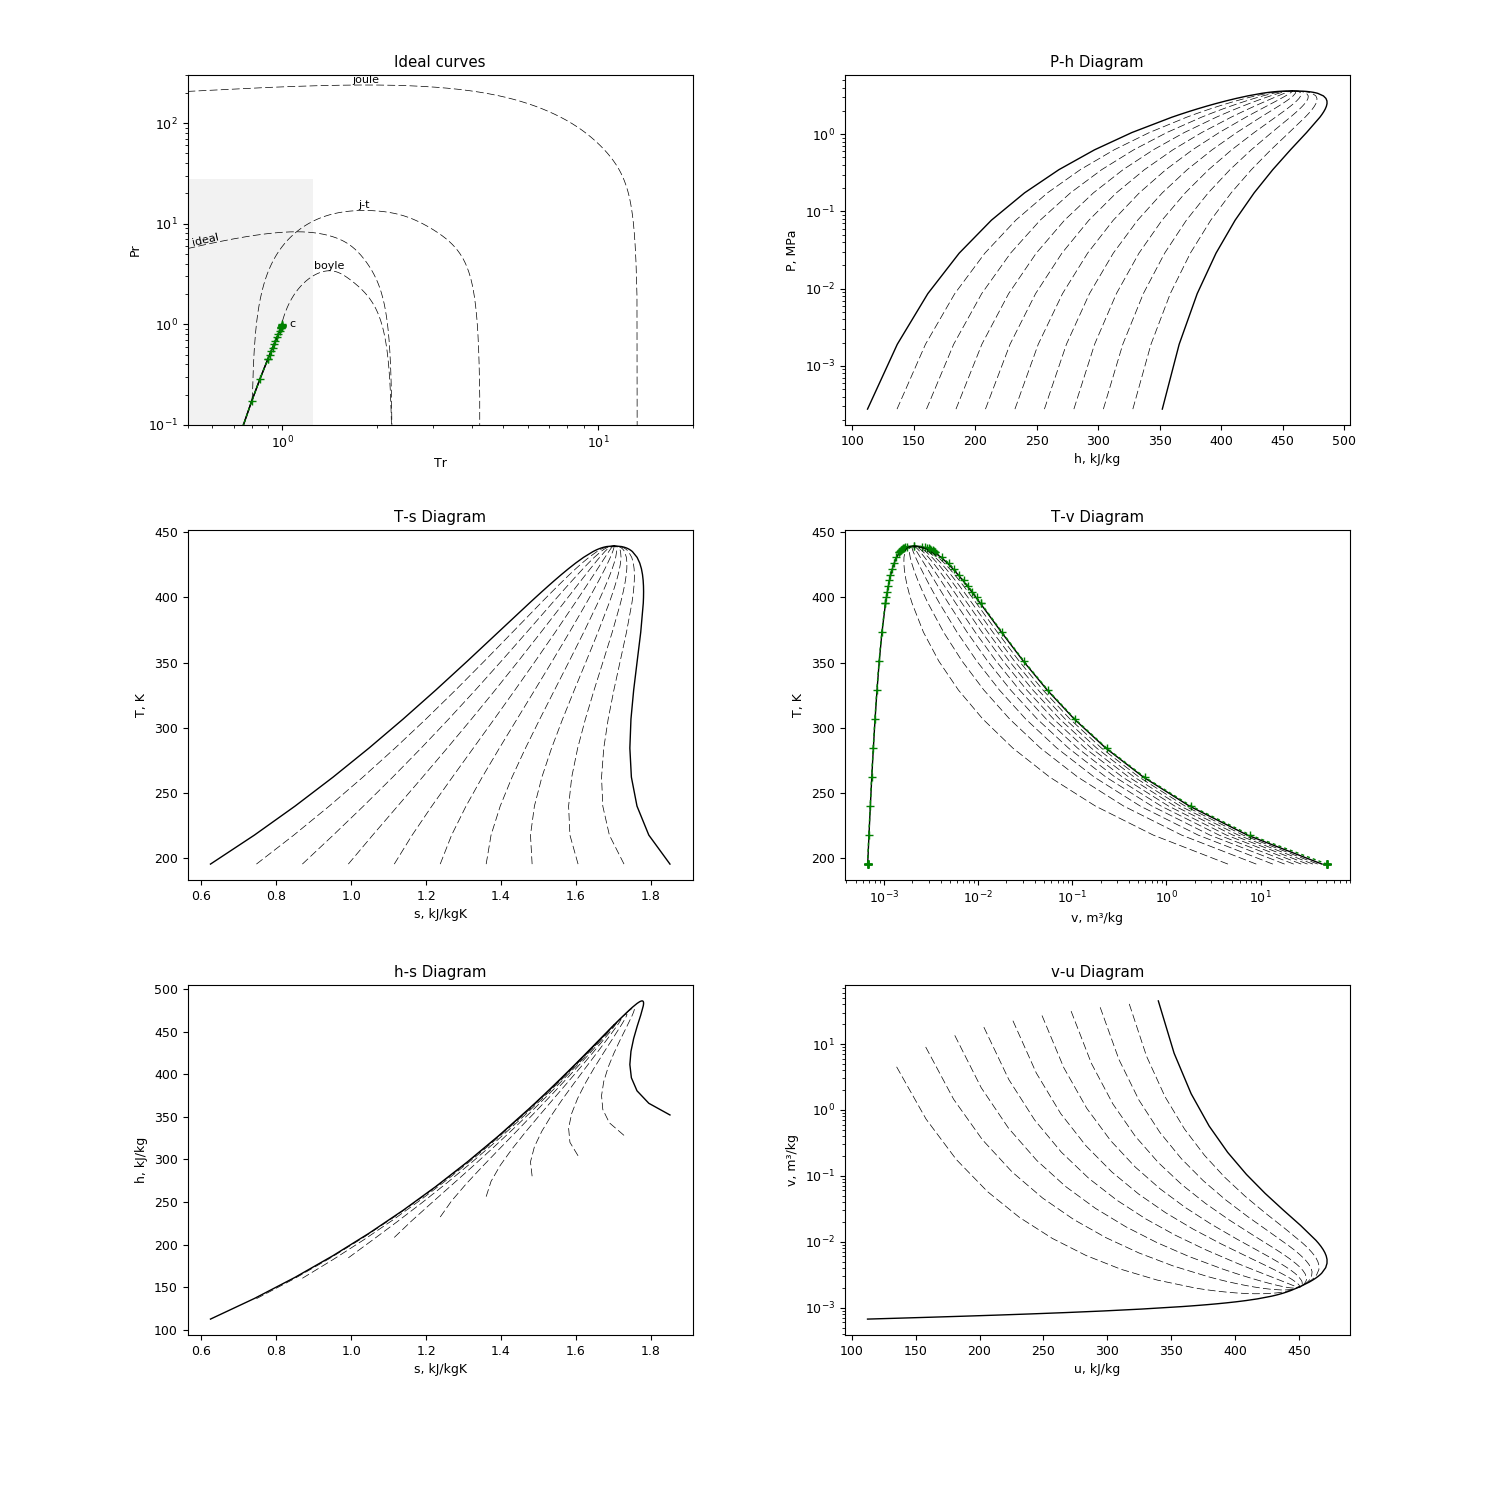
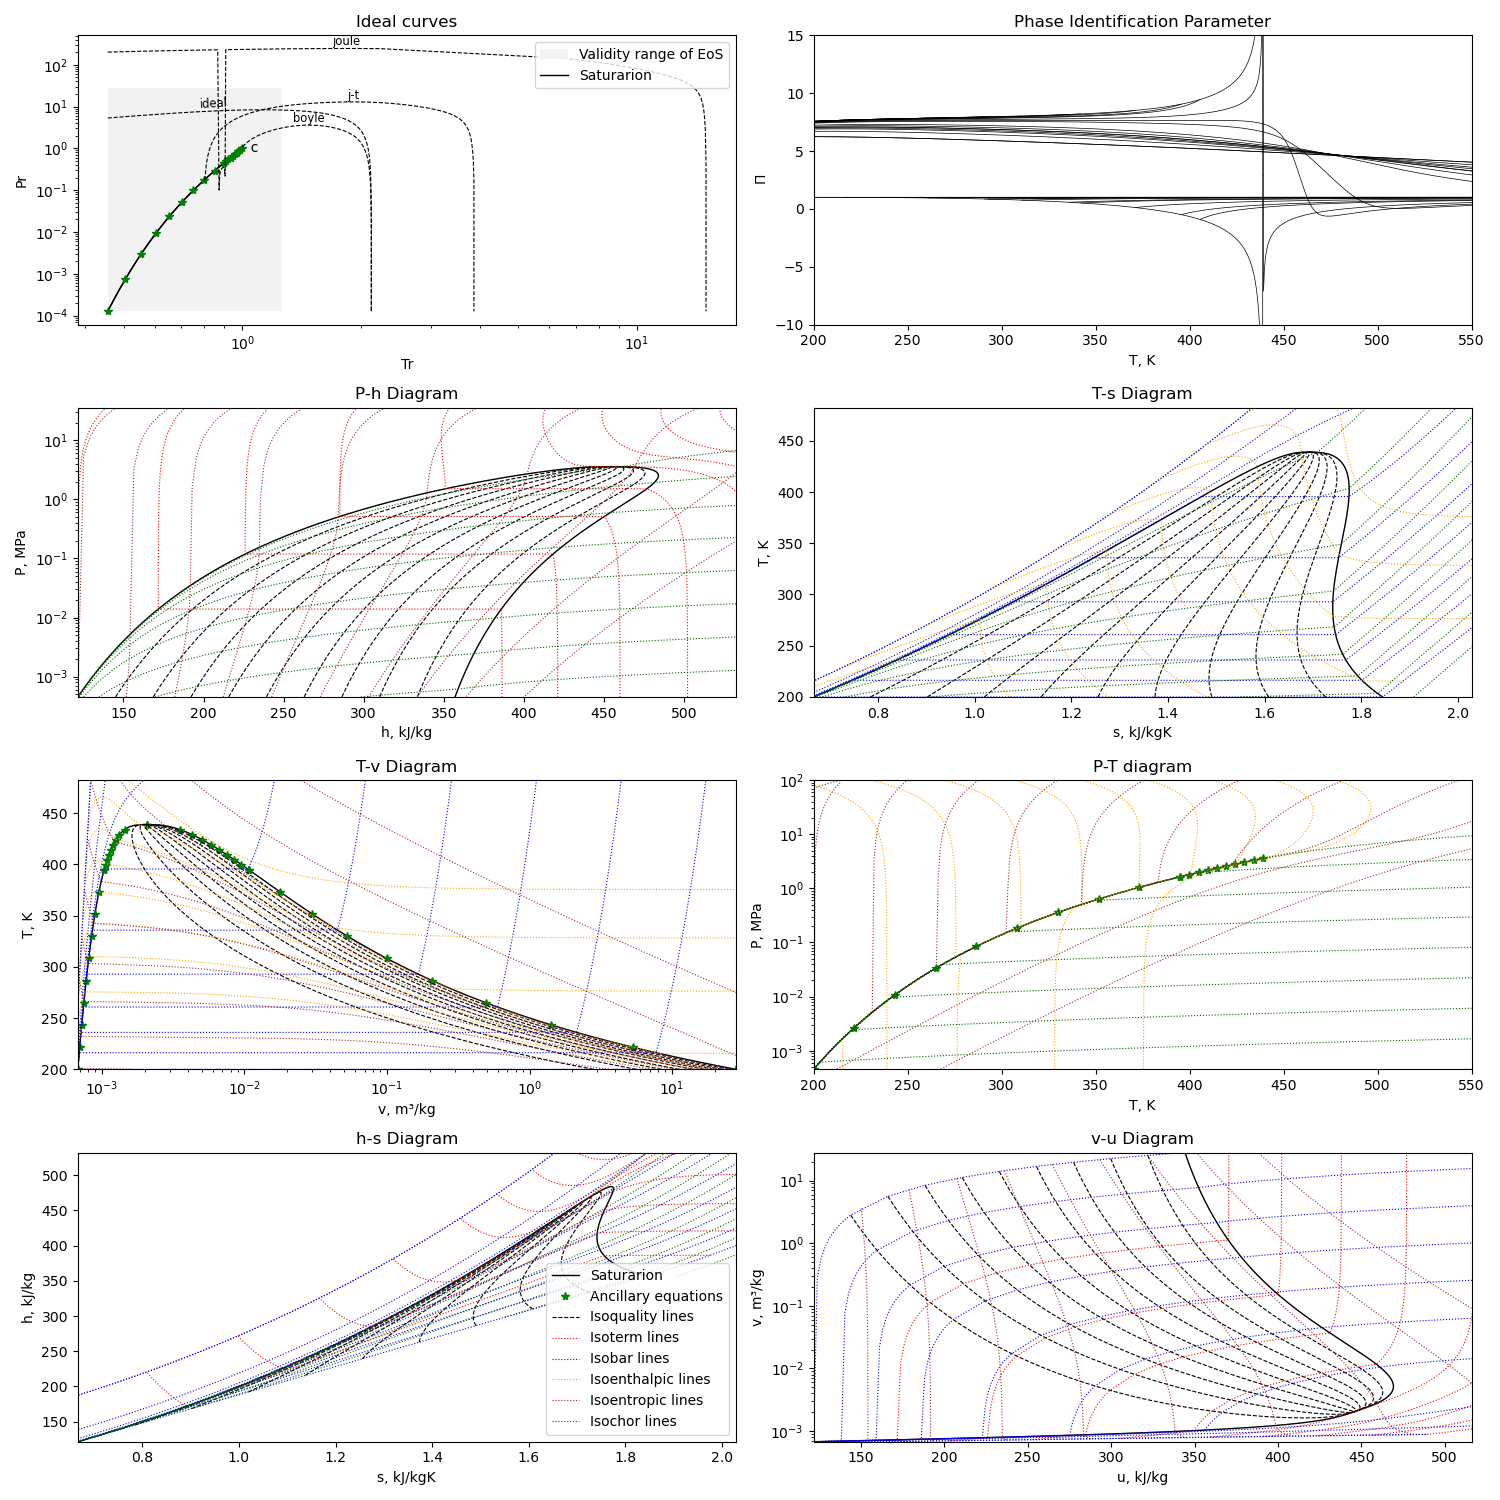
Update refrigerants images for mEoS documentation including PIP plot #5

diff --git a/lib/mEoS/R1233zd.py b/lib/mEoS/R1233zd.py
@@ -69,7 +69,7 @@ class R1233zd(MEoS):
         "cp": Fi1,
         "ref": "IIR",
 
-        "Tmin": Tt, "Tmax": 450.0, "Pmax": 100000.0, "rhomax": 11.85,
+        "Tmin": 200, "Tmax": 550.0, "Pmax": 100000.0, "rhomax": 11.85,
 
         "nr1": [0.04394257, 1.062919, -1.2879140374971, -0.8088618920845,
                 0.2372427],

diff --git a/lib/mEoS/Novec649.py b/lib/mEoS/Novec649.py
@@ -65,7 +65,7 @@ class Novec649(MEoS):
         "cp": Fi1,
         "ref": "IIR",
 
-        "Tmin": Tt, "Tmax": 500.0, "Pmax": 50000.0, "rhomax": 6.24,
+        "Tmin": Tt, "Tmax": 500.0, "Pmax": 50000.0, "rhomax": 7,
 
         "nr1": [0.05623648, 2.973616, -6.126970, 3.440240, 1.451737,
                 -2.837857, 0.2077767],

diff --git a/lib/mEoS/R1216.py b/lib/mEoS/R1216.py
@@ -56,7 +56,7 @@ class R1216(MEoS):
         "cp": CP1,
         "ref": "NBP",
 
-        "Tmin": Tt, "Tmax": 400.0, "Pmax": 12000.0, "rhomax": 12.89,
+        "Tmin": Tt, "Tmax": 400.0, "Pmax": 12000.0, "rhomax": 15,
 
         "nr1": [.37582356e-1, .14558246e1, -.2701615e1, -.3357347, .1885495],
         "d1": [4, 1, 1, 2, 3],

diff --git a/lib/mEoS/R1234zeE.py b/lib/mEoS/R1234zeE.py
@@ -72,7 +72,7 @@ class R1234zeE(MEoS):
         "cp": Fi1,
         "ref": "IIR",
 
-        "Tmin": Tt, "Tmax": 420.0, "Pmax": 20000.0, "rhomax": 13.26,
+        "Tmin": Tt, "Tmax": 420.0, "Pmax": 20000.0, "rhomax": 14,
 
         "nr1": [0.03982797, 1.812227, -2.537512, -0.5333254, 0.1677031],
         "d1": [4, 1, 1, 2, 3],

diff --git a/lib/mEoS/R1336mzzZ.py b/lib/mEoS/R1336mzzZ.py
@@ -67,7 +67,7 @@ class R1336mzzZ(MEoS):
         "cp": CP1,
         "ref": "IIR",
 
-        "Tmin": 230, "Tmax": 460, "Pmax": 36000.0,
+        "Tmin": 230, "Tmax": 560, "Pmax": 36000.0,
 
         "nr1": [0.036673095, 1.1956619, -1.8462376, -0.60599297, 0.24973833],
         "d1": [4, 1, 1, 2, 3],

diff --git a/lib/mEoS/R1234zeZ.py b/lib/mEoS/R1234zeZ.py
@@ -63,7 +63,7 @@ class R1234zeZ(MEoS):
         "cp": Fi1,
         "ref": "IIR",
 
-        "Tmin": 238, "Tmax": 440.0, "Pmax": 34000.0,
+        "Tmin": 238, "Tmax": 540.0, "Pmax": 34000.0,
 
         "nr1": [0.03194509, 1.394592, -2.300799, -0.2556693, 0.1282934],
         "d1": [4, 1, 1, 2, 3],

diff --git a/lib/mEoS/RE245fa2.py b/lib/mEoS/RE245fa2.py
@@ -94,7 +94,7 @@ class RE245fa2(MEoS):
         "sigma": [0.0699], "exp": [1.222]}
 
     _vapor_Pressure = {
-        "eq": 3,
+        "eq": 3, "Tc": 444.58,
         "n": [-8.9235, 10.527, -23.058, 30.291, -20.913, -26.745],
         "t": [1, 1.5, 1.9, 2.4, 2.9, 3.2]}
     _liquid_Density = {

diff --git a/lib/mEoS/VinylCl.py b/lib/mEoS/VinylCl.py
@@ -65,7 +65,7 @@ class VinylCl(MEoS):
         "cp": Fi1,
         "ref": "NBP",
 
-        "Tmin": Tt, "Tmax": 430, "Pmax": 100000,
+        "Tmin": Tt, "Tmax": 530, "Pmax": 100000,
 
         "nr1": [0.012261627, 0.8604231, -1.0169596, -0.81353519, 0.23529717],
         "d1": [4, 1, 1, 2, 3],

diff --git a/lib/mEoS/C6F14.py b/lib/mEoS/C6F14.py
@@ -62,7 +62,7 @@ class C6F14(MEoS):
         "cp": CP1,
         "ref": "NBP",
 
-        "Tmin": Tt, "Tmax": 460, "Pmax": 40000,
+        "Tmin": Tt, "Tmax": 560, "Pmax": 40000,
 
         "nr1": [0.035689273, 0.89834616, -0.11619207, -1.6558707, 0.3090401],
         "d1": [4, 1, 1, 2, 3],
